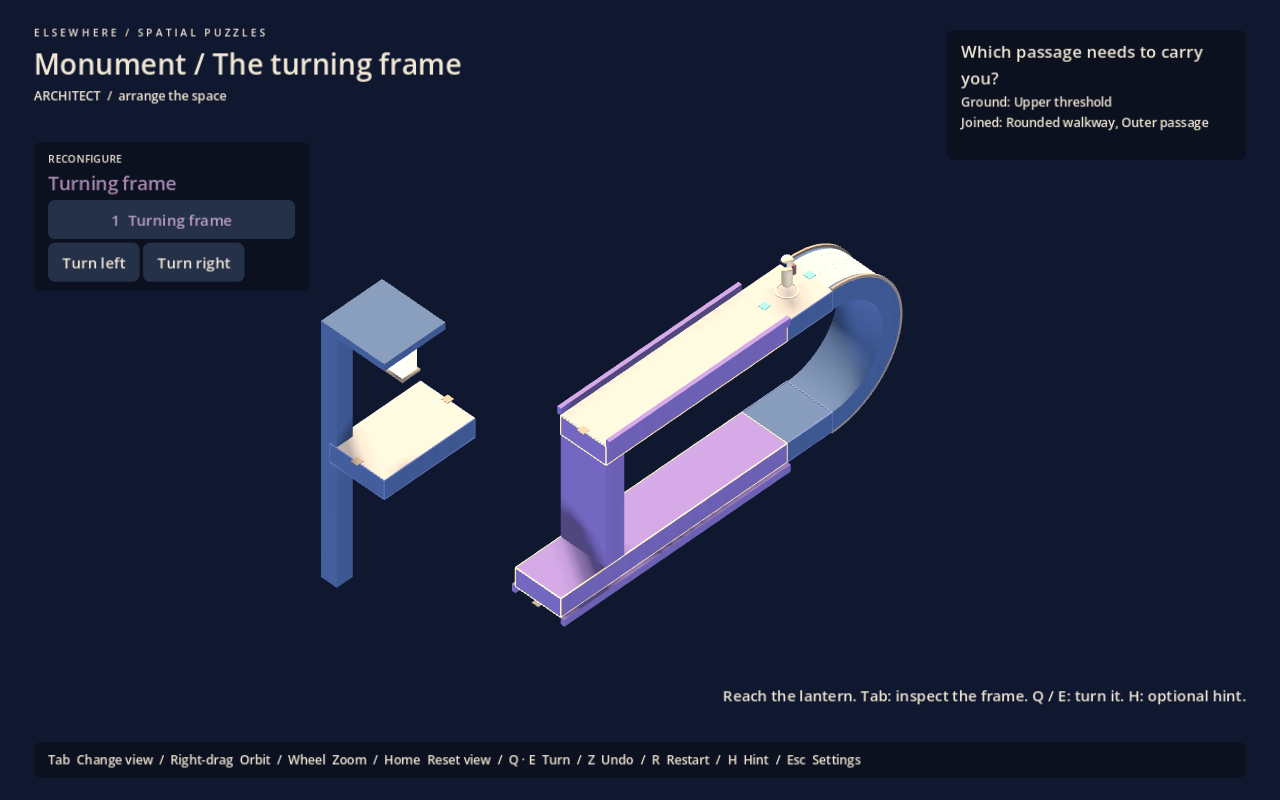
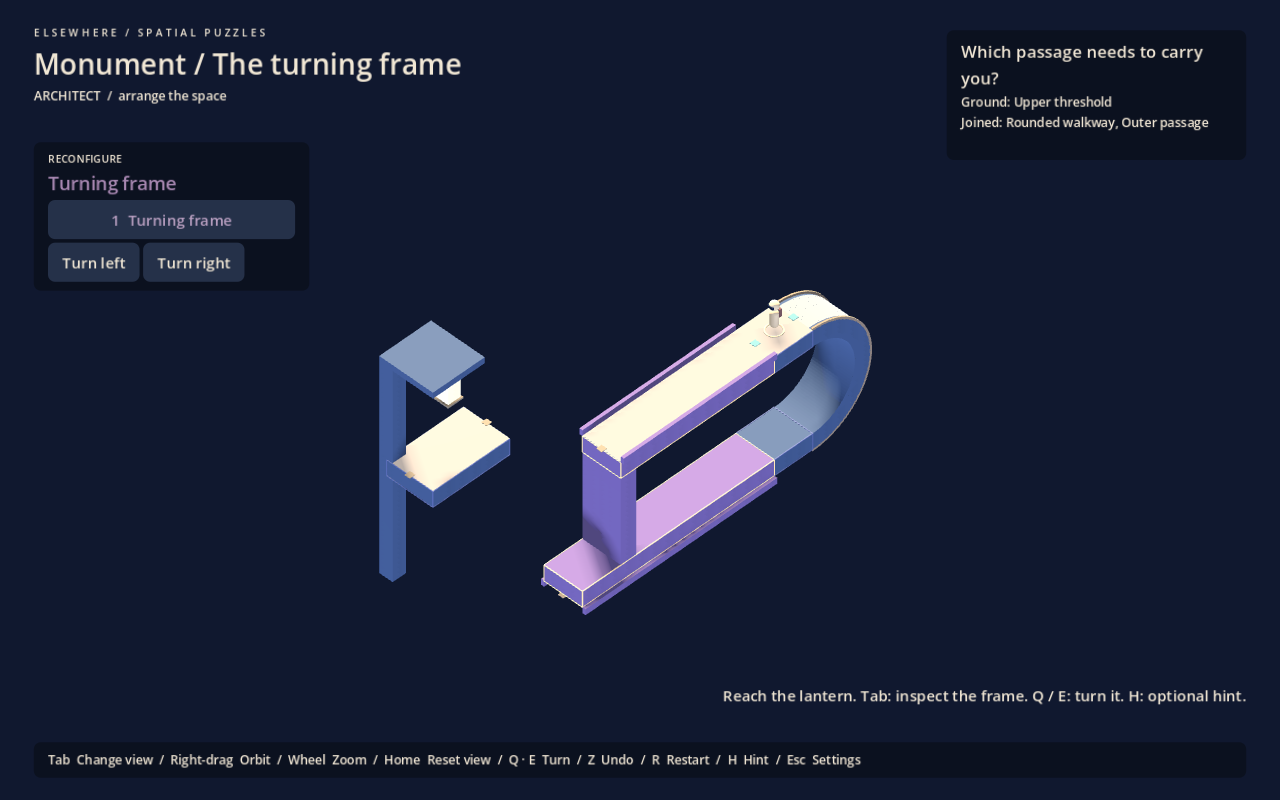
Keep the turning-frame destination visible from either passage

Changed region(s): [[0.375, 0.2812, 0.7188, 0.7812], [0.25, 0.3438, 0.4062, 0.75]]

diff --git a/docs/validation.md b/docs/validation.md
@@ -2,9 +2,13 @@
 
 ## Turning-frame study — 1 October 2026
 
+Positional-choice review: the existing puzzle already creates a correct arrangement with the player on the wrong passage. A Godot MCP Pro run reached that state, then returned to the arrival and completed from the longer ledge using normal walking and turns, without reset. [Wrong-passage evidence](monument-wrong-passage.png) shows the disconnected occupied path and connected destination. The taller landmark was cropped in that inverted view; the monument's fixed focus/scale now keep it above the footer. Added projected-mesh framing checks for both occupied passages across all four orientations. No walking region, connection or mechanism changed.
+
+Final positioning and original-gallery suites pass with exit 0, explicit PASS markers and empty stderr on **Godot 4.6.1 Mono and 4.7.2 Steam**, using an addon-free copy of the final scripts. The monument marker includes `overview framing from both passages`. MCP visual review ran in an isolated project/user-data copy under 4.7.2. The user's editor, running play session and pre-existing `project.godot` feature-version edit were preserved. This covers the selected regression suites and rendered cases, not comprehensive engine compatibility or human readability. The [new monument-first playtest](playtest.md#turning-frame-first-when-assessing-the-monument) records the latter questions.
+
 Follow-up refinement: the destination arch and floor beacon were replaced with a projecting balcony, slender fixed pier and suspended lantern. Moving passages gained low kerbs outside their authored walking regions. MCP Pro inspection caught a broad pier hiding the light; the final pier is narrower and offset to the rear corner. Updated arrival/overview/underside captures show the final geometry. A live mouse/forward/Tab/E traversal again reached `Lantern_landing` with `won = true`.
 
-Both regression suites pass on the final geometry with exit 0 and PASS markers in a freshly imported clean staged checkout using Godot 4.6.1. These include all four frame configurations, incorrect boarding, premature turning, both roll directions and reverse travel. The review used a separate MCP-enabled project copy and separate user-data directory because the user's Godot 4.7.2 editor had no active MCP plugin connection. The user's running game, progress and pre-existing `project.godot` version change were left untouched. This is not a claim of a completed 4.7.2 compatibility test.
+That earlier destination refinement passed both regression suites with exit 0 and PASS markers in a freshly imported clean staged checkout using Godot 4.6.1. These include all four frame configurations, incorrect boarding, premature turning, both roll directions and reverse travel. The review used a separate MCP-enabled project copy and separate user-data directory because the user's Godot 4.7.2 editor had no active MCP plugin connection. The user's running game, progress and pre-existing `project.godot` version change were left untouched. The 4.7.2 results above were obtained during the subsequent positional-choice review.
 
 The separate [monument study](monument-study.md) retains every earlier puzzle and adds one architectural assembly. `MONUMENT SELF TEST PASS` verifies all four configurations, the upper-path counterexample, remote turning before boarding, ordinary recovery without restarting, both solving roll directions, full reverse traversal, restart, independent save identity, reload, undo and completion. First-person held-W traversal around the integrated curve is also checked. Headless Godot cannot capture the mouse, so that test calls the same look handler directly; live input dispatch was verified separately.
 

diff --git a/docs/playtest.md b/docs/playtest.md
@@ -2,7 +2,20 @@
 
 Allow 15?25 minutes. Use a fresh study from Escape. Do not explain the solution or read the specification's solution paragraphs to the player. Explain only movement, Tab, structure selection, Q/E and undo.
 
-## Connected chapter first
+## Turning frame first when assessing the monument
+
+Use **The turning frame** before Study 1 or The Lantern Fold: those puzzles teach the same path-choice dependency. Give only the controls and let the player explore in first person and isometric view. Keep H and the completion explanation optional.
+
+- At arrival, ask them to point to their starting location and intended destination. Record whether the suspended lantern reads as the goal.
+- Before turning, ask which surfaces they expect to connect and whether the player will be able to use that connection.
+- If they board the upper passage, let the failed attempt happen. Ask what prevents crossing and where they think the useful path is. Do not name the underside route for them.
+- If they align the empty frame first, observe whether they recognize the lost boarding connection and can recover by turning it back.
+- After exploring below, ask them to identify that same passage in the overview. Record whether its hidden paving caused confusion.
+- Before revealing the explanation, ask: **Could the frame be correctly aligned while you were in the wrong place? Why did you need to change paths before turning?**
+
+Treat this as one positional insight. Success is a causal prediction and an understandable recovery, not just completion. A second role for the frame remains a possible later experiment; do not count extra turns as extra reasoning. Record first-person presence and camera comfort separately from solution understanding.
+
+## Connected chapter comparison
 
 Use **Chapter 1 / The far light** before the isolated studies. Follow the [courtyard observation protocol](first-chapter-plan.md#playtest-and-decision-record). Check the three assembly colours, architecture in both views, visible clearance obstruction, position before withdrawal, far-gallery ordering, recovery and landmark recognition. Ask for causal explanations before revealing the solution. These human outcomes are not yet validated.
 

diff --git a/docs/skill.md b/docs/skill.md
@@ -24,6 +24,8 @@ Godot 4.6.1, GDScript, Compatibility renderer. F5 runs `scenes/positioning.tscn`
 
 The monument uses layout index 5, `monument_layout.gd`, `monument_tests.gd` and `scenes/monument.tscn`. Keep its `monument-frame.save` and completion flag isolated. Verify all four arrangements, wrong-path and remote-turn counterexamples, recovery, both solving rolls, reverse travel, first-person input, save/reload and undo. Headless Godot cannot capture a mouse; test its look handler there and verify actual event dispatch in a live MCP session.
 
+Keep the full lantern and frame visible in the default overview from both moving passages through all four orientations, including a wrong-path half-roll. `check_overview` projects actual visible mesh bounds into the usable viewport; do not solve cropping by changing camera B's ground transport. The monument-first protocol in `playtest.md` must precede Study 1 when assessing unaided path-choice reasoning.
+
 1. Only marked regions accept flat contact. Ordinary edges stop movement. Never infer a gravity change from proximity, camera direction or an unmarked face.
 2. CurvedTrack is an explicit analytic ribbon. Its radius-3 half-circle transports contact normal, heading and orbit continuously. Its tail is configurable; match the endpoint to the receiving edge without overlapping paving. General concave/spline navigation is not implemented.
 3. Study links require matching world endpoints and normals. The walker additionally validates actual contact against the receiving path. Do not gate these links with progress flags.

diff --git a/docs/spec.md b/docs/spec.md
@@ -1,10 +1,12 @@
 # Elsewhere ? positioning prototype specification
 
-Revision 10, 1 October 2026.
+Revision 11, 1 October 2026.
 
 ## Separate architectural study: The turning frame
 
 The user endorsed the single-object direction. The destination is now a projecting balcony on a slender fixed pier with a suspended lantern, and low raised kerbs define both moving passages. This replaces the generic destination arch/beacon and preserves the existing positional dependency, walking regions and configurations. Arrival remains integrated into the fixed rounded end. Readability of the refined silhouette is not yet human-validated.
+
+The overview's fixed focus and scale include that taller destination when either passage is occupied in all four orientations. This fixes cropping during the wrong-path half-roll without changing camera B's transport. The existing wrong-path dependency is now documented with rendered evidence and a focused blind playtest; a later second function for the frame remains a proposal.
 
 [The turning frame](monument-study.md) is available from the menu or `scenes/monument.tscn`. It consolidates Study 1's positional choice into one substantial frame with a fixed rounded end, two separate moving passages and an offset lantern destination. The upper passage never reaches the goal; the longer underside ledge reaches it after a half-roll. Turning before boarding removes access from the fixed end. Either roll direction works, and wrong choices remain recoverable through normal movement and turns.
 

diff --git a/docs/monument-study.md b/docs/monument-study.md
@@ -24,6 +24,12 @@ Turning the empty frame toward the destination also removes both connections to 
 
 This deliberately reuses Study 1's path-choice dependency in consolidated architecture. It tests whether a simpler form communicates the existing reasoning better; it does not claim a new puzzle mechanic or the depth of a whole chapter.
 
+The wrong-path condition is playable now, not a proposed extension: the frame can connect to the destination while the player occupies its other passage. The same frame has not yet been given a second, later bridge-making role. Judge the current positional insight with the [focused blind playtest](playtest.md#turning-frame-first-when-assessing-the-monument) before expanding it.
+
+![Correct frame configuration, player on the wrong passage](monument-wrong-passage.png)
+
+The default overview now includes the full destination even when the occupied ground is inverted. Framing checks cover both passages through all four orientations; camera B still follows the ground and manual orbit remains separate.
+
 <details>
 <summary>Solution and recovery</summary>
 
